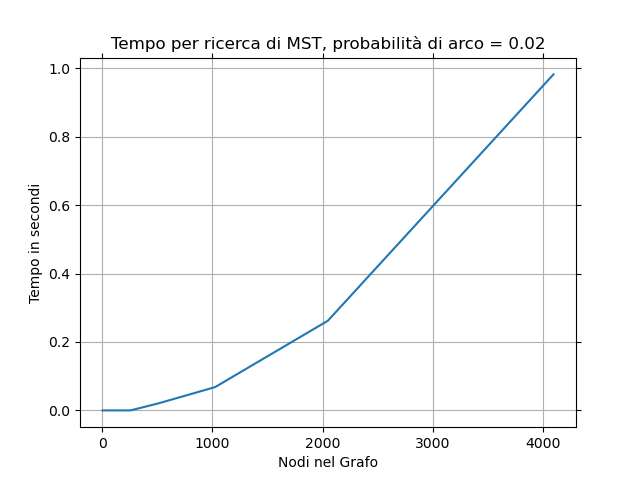
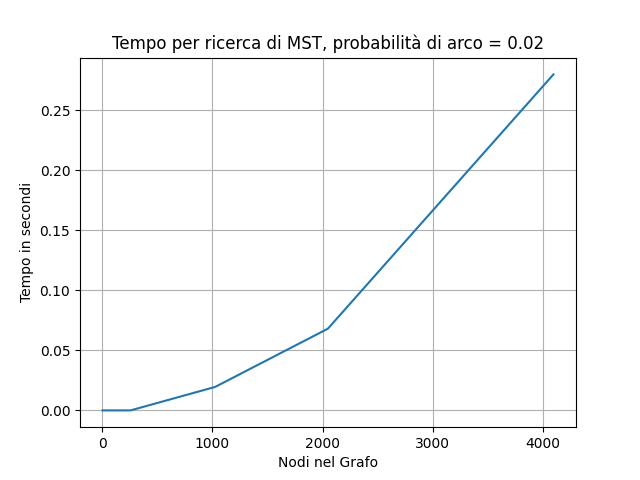
Sistemata struttura Union-Find, piccolo bug.

diff --git a/connectedComponentsAndMST.py b/connectedComponentsAndMST.py
@@ -1,6 +1,8 @@
 import numpy as np
 import random
 import timeit as time
+
+import DoublyLinkedList
 import unionFind
 import matplotlib.pyplot as plt
 
@@ -11,9 +13,9 @@ def getSimmetricalWeightedAdjacencyMatrix(size, probabilityOfArch):
         for j in range(0, i):
             randomTreshold = random.uniform(0, 1)
             if probabilityOfArch >= randomTreshold:
-                randomNumber = random.randint(1, 9)
-                tmpMatrix[i, j] = randomNumber
-                tmpMatrix[j, i] = randomNumber
+                randomWeight = random.randint(1, 9)
+                tmpMatrix[i, j] = randomWeight
+                tmpMatrix[j, i] = randomWeight  # costruisco matrice simmetrica perchè grafo non orientato.
     return tmpMatrix
 
 
@@ -29,12 +31,12 @@ def getListsOfSimmetricalWeightedAdjacencyMatrices(listOfProbabilityOfArches, nu
 
 
 def getWeightsAndIndecesOfNonZeroValueSimmetricalMatrix(matrix):
-    indiciMatrix = np.nonzero(matrix)
+    indiciMatrix = np.nonzero(matrix) # lista delle posizioni di valori != 0
     indiciAndPesi = []
     for i in range(len(indiciMatrix[0])):
         indiceRiga = indiciMatrix[0][i]
         indiceColonna = indiciMatrix[1][i]
-        if indiceRiga < indiceColonna:
+        if indiceRiga < indiceColonna:  # matrice simmetrica, tengo conto solo della triangolare superiore.
             peso = matrix[indiceRiga, indiceColonna]
             archi = [indiciMatrix[0][i], indiciMatrix[1][i]]
             tupla = [peso, archi]
@@ -56,10 +58,10 @@ def getConnectedComponentsSET(adjacencyMatrix, listOfWeightsAndIndeces, tmpTime)
     startTime = time.default_timer()
     # crea Nodi
     size = adjacencyMatrix.shape[0]
-    SETDLL = set()
+    SETDLL = set()   # Insieme che contiene tutte le liste doppiamente linkate, DLL ==
     listOfNodes = []
     for i in range(size):
-        node = unionFind.Node(i)
+        node = DoublyLinkedList.Node(i)
         listOfNodes.append(node)
         unionFind.makeSet(SETDLL, node)
 
@@ -67,16 +69,13 @@ def getConnectedComponentsSET(adjacencyMatrix, listOfWeightsAndIndeces, tmpTime)
     nUnion = 0
     lengthListOfWeightsAndIndeces = len(listOfWeightsAndIndeces)
     for i in range(lengthListOfWeightsAndIndeces):
-        testaLista1 = unionFind.findSet(listOfNodes[listOfWeightsAndIndeces[i][1][0]])
-        testaLista2 = unionFind.findSet(listOfNodes[listOfWeightsAndIndeces[i][1][1]])
-        if testaLista1 != testaLista2:
-            lista1 = unionFind.findListFromHead(SETDLL, testaLista1)
-            lista2 = unionFind.findListFromHead(SETDLL, testaLista2)
+        lista1 = unionFind.findSet(listOfNodes[listOfWeightsAndIndeces[i][1][0]])
+        lista2 = unionFind.findSet(listOfNodes[listOfWeightsAndIndeces[i][1][1]])
+        if lista1 != lista2:
             if lista1.getSize() > lista2.getSize():
                 unionFind.union(lista1, lista2)
                 nUnion = nUnion + 1
                 SETDLL.remove(lista2)
-
             else:
                 unionFind.union(lista2, lista1)
                 nUnion = nUnion + 1
@@ -120,13 +119,12 @@ def MST_Kruskal(adjacencyMatrix, listOfWeightsAndIndeces, tmpTime):  # ritorna l
     SETDLL = set()
     listOfNodes = []
     for i in range(size):
-        node = unionFind.Node(i)
+        node = DoublyLinkedList.Node(i)
         listOfNodes.append(node)
         unionFind.makeSet(SETDLL, node)
 
-    # ordina Archi SENZA DEEP COPY
-    orderedListOfWeightsAndIndeces = listOfWeightsAndIndeces  # deepcopy(listOfWeightsAndIndeces)
-    orderedListOfWeightsAndIndeces.sort(key=lambda x: x[0])
+    orderedListOfWeightsAndIndeces = listOfWeightsAndIndeces
+    orderedListOfWeightsAndIndeces.sort(key=lambda x: x[0])   # ordino archi per peso non decrescente
 
     # trova MST
     nUnion = 0
@@ -134,27 +132,21 @@ def MST_Kruskal(adjacencyMatrix, listOfWeightsAndIndeces, tmpTime):  # ritorna l
         if nUnion < size:  # MASSIMO V-1 UNION
             indiceRiga = orderedListOfWeightsAndIndeces[i][1][0]
             indiceColonna = orderedListOfWeightsAndIndeces[i][1][1]
-            testaLista1 = unionFind.findSet(listOfNodes[indiceRiga])
-            testaLista2 = unionFind.findSet(listOfNodes[indiceColonna])
-            if testaLista1 != testaLista2:
-                lista1 = unionFind.findListFromHead(SETDLL, testaLista1)
-                lista2 = unionFind.findListFromHead(SETDLL, testaLista2)
+            lista1 = unionFind.findSet(listOfNodes[indiceRiga])
+            lista2 = unionFind.findSet(listOfNodes[indiceColonna])
+            if lista1 != lista2:
                 if lista1.getSize() > lista2.getSize():
                     unionFind.union(lista1, lista2)
-                    nUnion = nUnion + 1
                     SETDLL.remove(lista2)
-                    peso = adjacencyMatrix[indiceRiga, indiceColonna]
-                    archi = [indiceRiga, indiceColonna]
-                    tupla = [peso, archi]
-                    newListOfWeightsAndIndeces.append(tupla)
                 else:
                     unionFind.union(lista2, lista1)
-                    nUnion = nUnion + 1
                     SETDLL.remove(lista1)
-                    peso = adjacencyMatrix[indiceRiga, indiceColonna]
-                    archi = [indiceRiga, indiceColonna]
-                    tupla = [peso, archi]
-                    newListOfWeightsAndIndeces.append(tupla)
+
+                nUnion = nUnion + 1
+                peso = adjacencyMatrix[indiceRiga, indiceColonna]
+                archi = [indiceRiga, indiceColonna]
+                tupla = [peso, archi]
+                newListOfWeightsAndIndeces.append(tupla)
 
     # stampa tempi
     endTime = time.default_timer()

diff --git a/unionFind.py b/unionFind.py
@@ -1,70 +1,24 @@
-class Node:
-
-    def __init__(self, data):
-        self.nextNode = None  # reference to head node in DLL
-        self.head = None  # reference to first node in DLL
-        self.data = data  # data == (vertice)
-
-
-class DoublyLinkedList:
-
-    def __init__(self):
-        self.head = None
-        self.tail = None
-        self.size = 0
-
-    def insertNode(self, newNode):
-        if self.head is None:
-            self.head = newNode
-            self.tail = newNode
-            newNode.head = self.head
-        else:
-            self.tail.nextNode = newNode
-            self.tail = newNode
-            newNode.head = self.head
-        self.size = self.size + 1
-
-    def printDLL(self):
-        if self.head is not None:
-            tmpNode = self.head
-            print(tmpNode.data, end='')
-            while tmpNode.nextNode is not None:
-                tmpNode = tmpNode.nextNode
-                print(',', tmpNode.data, end='')
-        print()
-
-    def getSize(self):
-        return self.size
-
-    def appendDll(self, dll):
-        self.tail.nextNode = dll.head
-        self.tail = dll.tail
-        # aggiusta le testa della lista da appendere
-        tmpNode = dll.head
-        tmpNode.head = self.head
-        while tmpNode.nextNode is not None:
-            tmpNode = tmpNode.nextNode
-            tmpNode.head = self.head
-        self.size = self.size + dll.getSize()
-
-
 # UNION-FIND
 
-def makeSet(SET, node):
-    dll = DoublyLinkedList()
+import DoublyLinkedList as DLL
+
+
+def makeSet(SET, node):  # Crea un nuovo insieme, (una nuova DLL) e la mette nell'insieme di tutte le DLL.
+    dll = DLL.DoublyLinkedList()
     dll.insertNode(node)
     SET.add(dll)
 
 
-def findSet(node):
-    return node.head.data
+def findSet(node):  # Ritorna il puntatore alla DLL che contiene il nodo
+    return node.head
 
 
-def union(dll1, dll2):
+def union(dll1, dll2):  # unisce due insiemi, quindi due DLL
     dll1.appendDll(dll2)
 
 
-def findListFromHead(SET, testa):
-    for lista in SET:
-        if testa == lista.head.data:
-            return lista
+# def findListFromHead(SET,nodoTesta):  # ritorna la DLL che ha come rappresentante nodoTesta. # trova la DLL nell'insieme che ha come head "testa".
+#     return nodoTesta.head
+#     # for lista in SET:
+#     #     if nodoTesta == lista.head.data:
+#     #         return lista

diff --git a/DoublyLinkedList.py b/DoublyLinkedList.py
@@ -1,0 +1,49 @@
+class Node:
+
+    def __init__(self, data):
+        self.nextNode = None  # reference to head node in DLL
+        self.head = None  # reference to first node in DLL
+        self.data = data  # data == (vertice)
+
+
+class DoublyLinkedList:
+
+    def __init__(self):
+        self.head = None
+        self.tail = None
+        self.size = 0
+
+    def insertNode(self, newNode):
+        if self.head is None:
+            self.head = newNode
+            self.tail = newNode
+            newNode.head = self      # self.head
+        else:
+            self.tail.nextNode = newNode
+            self.tail = newNode
+            newNode.head = self
+        self.size = self.size + 1
+
+    def printDLL(self):
+        if self.head is not None:
+            tmpNode = self.head
+            print(tmpNode.data, end='')
+            while tmpNode.nextNode is not None:
+                tmpNode = tmpNode.nextNode
+                print(',', tmpNode.data, end='')
+        print()
+
+    def getSize(self):
+        return self.size
+
+    def appendDll(self, dll):
+        self.tail.nextNode = dll.head
+        self.tail = dll.tail
+        # aggiusta le testa della lista da appendere
+        tmpNode = dll.head
+        tmpNode.head = self
+        while tmpNode.nextNode is not None:
+            tmpNode = tmpNode.nextNode
+            tmpNode.head = self
+        self.size = self.size + dll.getSize()
+

diff --git a/main.py b/main.py
@@ -5,8 +5,8 @@ listOfProbabilityOfArches = [0.01, 0.02, 0.04, 0.08, 1.00]
 numOfMatrices = 12
 timesOfCC = []
 timesOfMST = []
-listsOfMatrices = ccmst.getListsOfSimmetricalWeightedAdjacencyMatrices(listOfProbabilityOfArches, numOfMatrices)    #2^(numOfMatrices)
-listsOfWeightsAndIndeces = ccmst.getListsOfWeightsAndIndecesfNonZeroValueSimmetricalMatrices(listsOfMatrices)
+listsOfMatrices = ccmst.getListsOfSimmetricalWeightedAdjacencyMatrices(listOfProbabilityOfArches, numOfMatrices) # Costruisce matrici di adiacenza.
+listsOfWeightsAndIndeces = ccmst.getListsOfWeightsAndIndecesfNonZeroValueSimmetricalMatrices(listsOfMatrices) # Matrici di adiacenza in Lista di indici.
 listsOfCC = ccmst.getListsofALLConnectedComponents(listsOfMatrices, listsOfWeightsAndIndeces, timesOfCC)
 listsOfAllMST_Kruskal = ccmst.getListsOfAllMST_Kruskal(listsOfMatrices, listsOfWeightsAndIndeces, listsOfCC, timesOfMST)
 
